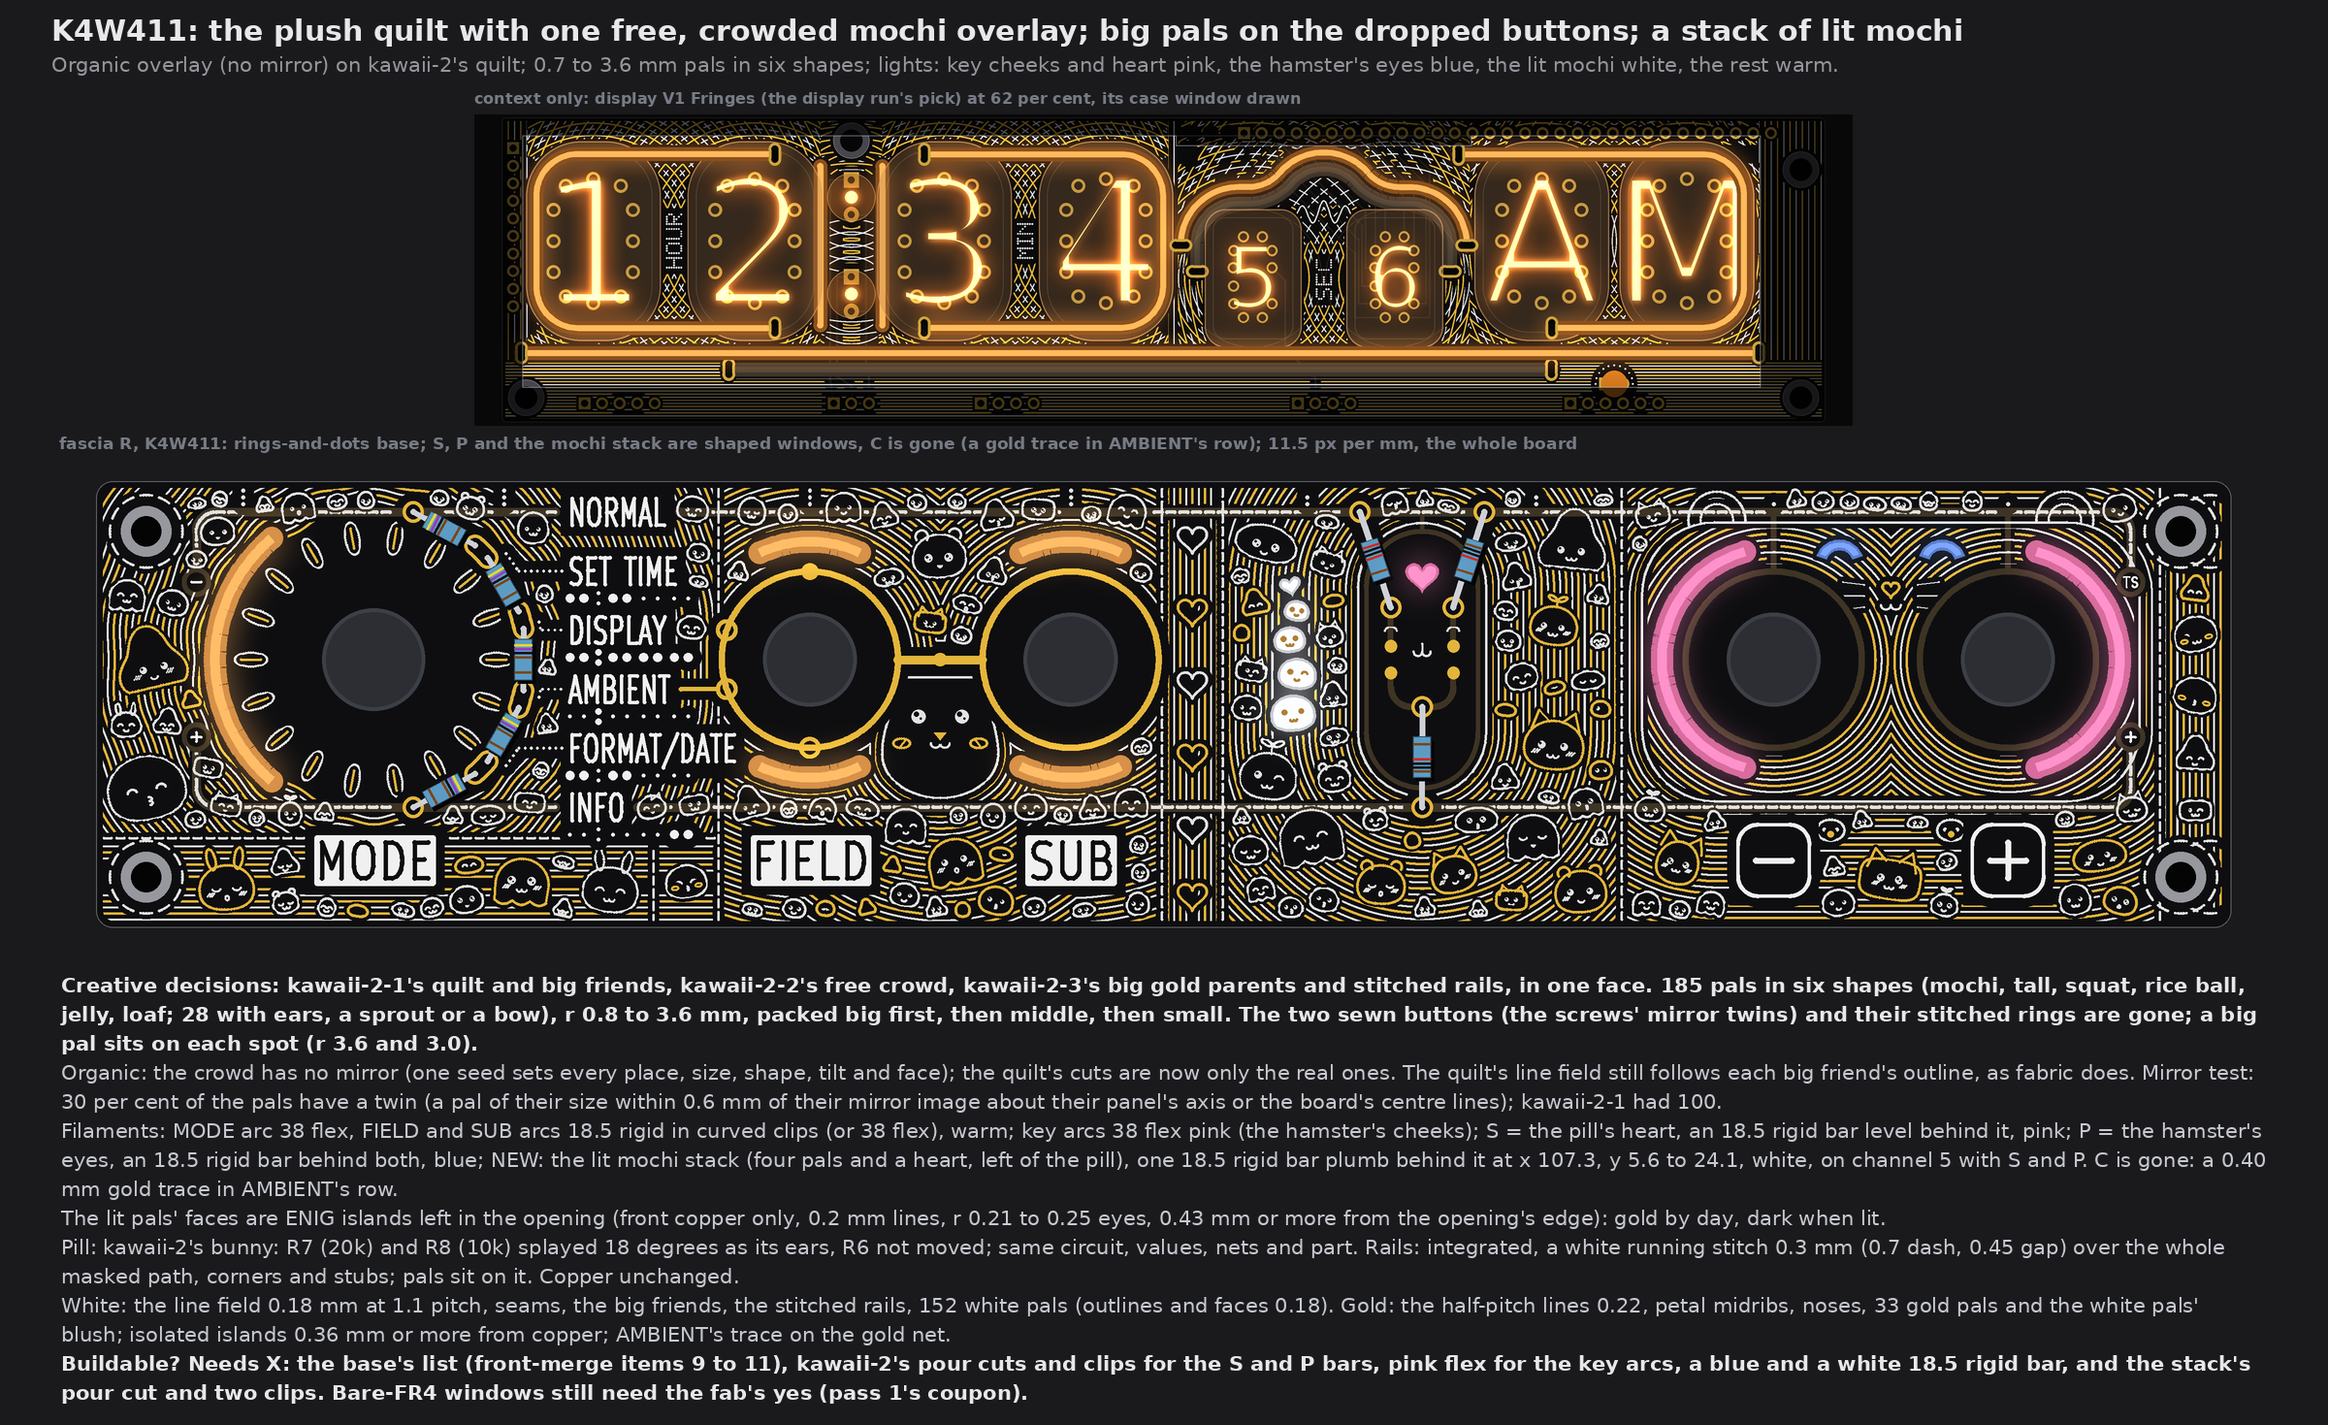
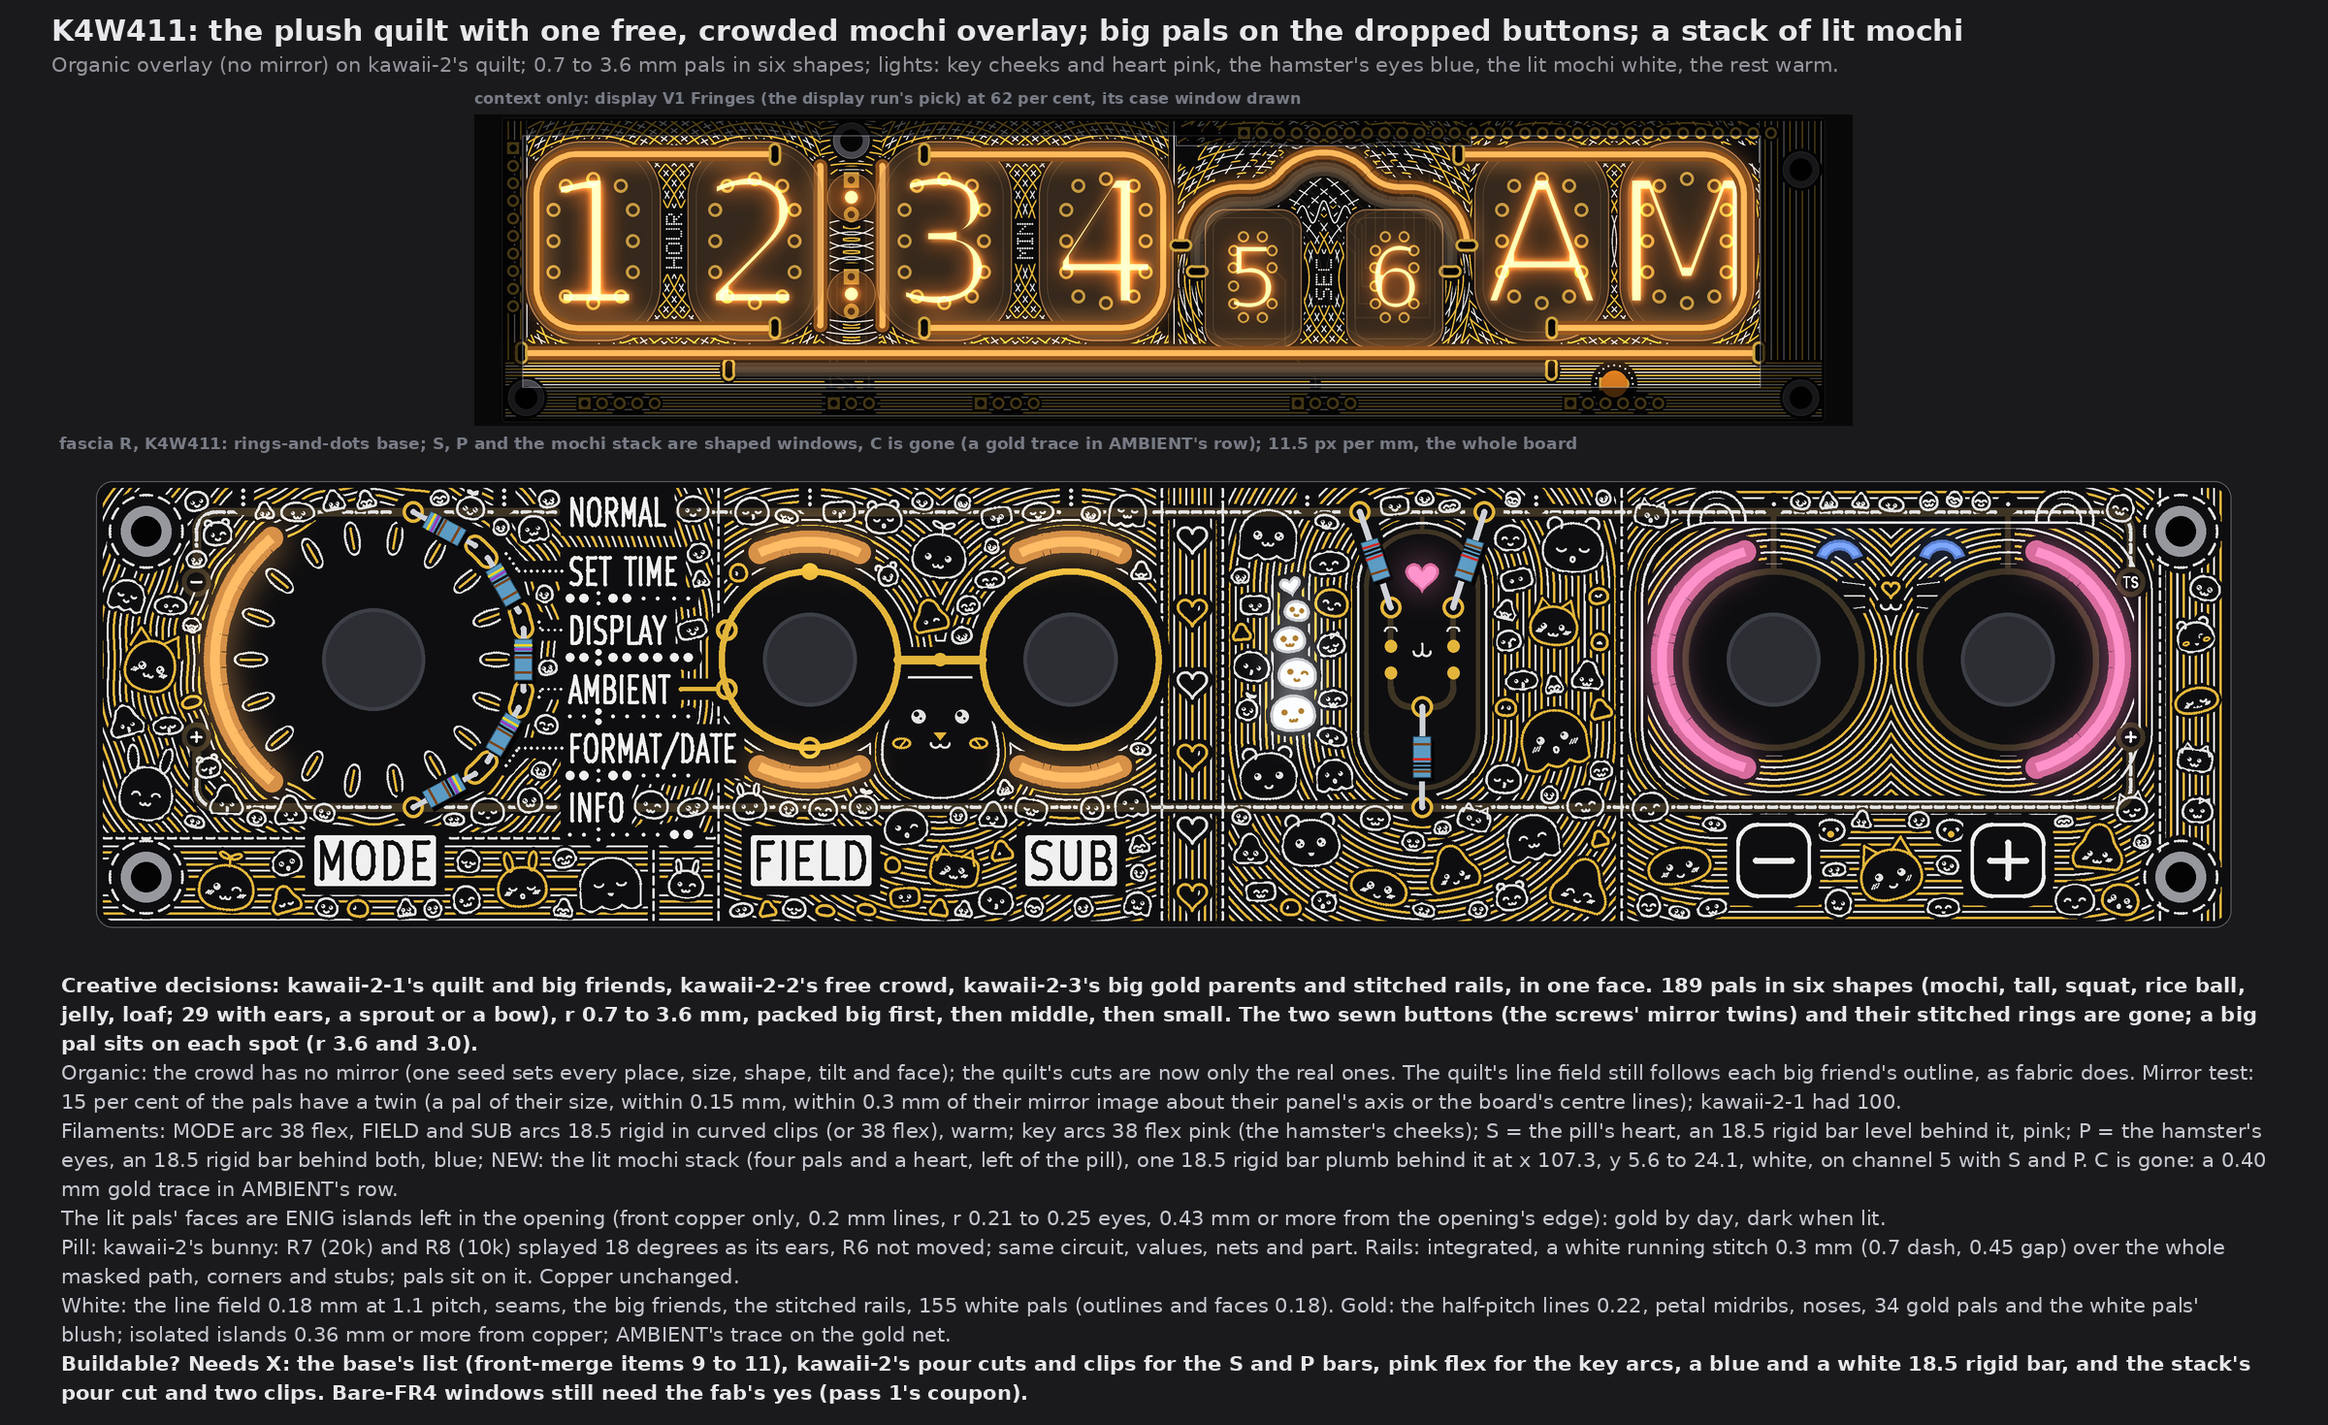
PCB/art: TS06 fascia K4W411 write-up, detail, back view and contact sheet; face after the full-size look (drawings only)
One final kawaii face: kawaii-2's quilt, 189 free pals in six shapes
(r 0.7 to 3.6), big pals on the two dropped sewn buttons (and the edge
panel's mirror rings dropped), a lit mochi stack on one new white 18.5
bar (channel 5 with S and P), rails stitched, the band under the keys
filled. S pink, P blue, keys pink, the rest warm.

Claude-Session: https://claude.ai/code/session_01WoV3gyAFgmtuk6W6Dr4bdA

diff --git a/PCB/art/TS06-FASCIA-K4W411.md b/PCB/art/TS06-FASCIA-K4W411.md
@@ -1,0 +1,207 @@
+# TS06 fascia K4W411: the final kawaii face (drawings only, nothing built)
+
+2026-10-14, front round 3, run fascia-K4W411. The owner's word (21:5x UTC): "final "K4W411" fascia option: converge on 1 mixing all
+three, dropping symmetry for the mochi overlay, the pals are varied in size and shape, its crwded, big ones are covering the
+unnecessary standoff mirrors that were used for bacground symmetry (the ones you marked with an x inside the circle) perhaps mochi
+light windows are possible? space under the buttons is a bit bare too".
+
+So K4W411 is one face made from the three kawaii-2 faces:
+* kawaii-2-1's quilt and big friends (the daisy, the cub, the bunny in the pill, the hamster, the hearts column);
+* kawaii-2-2's free crowd and its colours;
+* kawaii-2-3's big gold parents and its stitched rails.
+
+All characters are my own. The queue changes A1 to A5 are in: no top-edge dots (S and P are shaped windows), the pill and the
+rails said below, display V1 Fringes above the face, and the AMBIENT cutout C gone with a gold trace in its row.
+
+The face is fascia R with the owner's rings-and-dots (front-merge section 6), drawn from the board file's copy that pass 4 used,
+at one scale (11.5 px per mm), windows lit. No board, schematic, fab, tool, 3D, firmware or spec file was touched. The scripts are
+scratch (copies of the kawaii-2 run's), not in the repo. Marks: *measured* is from the drawing's raster (23 px per mm) or the
+board file; *inferred* is arithmetic; *assumed* is my reading.
+
+![K4W411 under display V1, and the three kawaii-2 faces it mixes](TS06-FASCIA-K4W411/contact-sheet.png)
+
+## 1. The face
+
+![K4W411](TS06-FASCIA-K4W411/k4w411.png)
+
+* **Creative decisions:** kawaii-2's plush quilt under one free, crowded overlay of 189 pals in six shapes, from r 0.7 to 3.6 mm.
+  Big pals sit where the two sewn buttons were. A stack of four lit mochi with a lit heart stands left of the pill. The rails are
+  the quilt's running stitch.
+* **Organic.** The crowd has no mirror: one seed sets every pal's place, size, shape, tilt, face and colour.
+  * The quilt's cuts are now only the real ones (round names, legends, windows, screws). kawaii-2 also cut each panel where a
+    cut's mirror image fell, and filled two of those cuts with the buttons; both are gone.
+  * The quilt's lines still follow each big friend's outline, like the seams of a sewn toy, and the big friends themselves (the
+    cub, the bunny, the hamster) keep their own faces. Nothing else on the board is mirrored.
+  * *Measured:* 15 per cent of the pals have a twin, meaning a pal of their size (within 0.15 mm) within 0.3 mm of their mirror
+    image about their panel's axis or the board's centre lines. These are chance matches in the narrow bands along the edges and
+    seams. kawaii-2-1 had 100 per cent.
+* **Filaments:**
+  * MODE arc: 38 flex, warm. FIELD and SUB arcs: 18.5 rigid in curved clips (or 38 flex), warm.
+  * The key arcs (the hamster's cheeks): 38 flex, pink.
+  * S: the heart in the pill, one 18.5 rigid bar lying level behind it, **pink**.
+  * P: the hamster's closed eyes, one 18.5 rigid bar behind both, **blue** (kawaii-2-2's sleepy blue eyes).
+  * **New: the lit mochi stack**, one 18.5 rigid bar, plumb, **white** (section 4).
+* **Pill:** as kawaii-2. R7 (20k) and R8 (10k) are splayed 18 degrees out as the bunny's ears; R6 does not move. The circuit,
+  values, nets and part do not change (section 5).
+* **Rails: integrated**, as a white running stitch along their whole copper path (section 5).
+* **White:** the line field (0.18 mm at 1.1 mm pitch), the seams, the big friends, the stitched rails and the screws' stitched
+  rings, and 155 white pals (outlines and faces 0.18 mm).
+* **Gold:** the half-pitch lines (0.22 mm), the petals' midribs, the noses, 34 gold pals, and the white pals' blush. All are
+  isolated islands, 0.36 mm or more from copper. AMBIENT's trace is on the gold net. The lit pals' faces are gold islands inside
+  their openings (section 4).
+* **Buildable? Needs X:**
+  * the base's list (front-merge items 9 to 11);
+  * kawaii-2's pour cuts and clip places for the S and P bars;
+  * pink flex for the key arcs, a blue 18.5 bar for P, a white 18.5 bar for the stack;
+  * the stack's pour cut and two clip places.
+  C's cut and tail are dropped.
+* **Fab note (once):** bare-FR4 windows still need the fab's yes (pass 1's coupon). Not decided here.
+
+![K4W411 at 2x](TS06-FASCIA-K4W411/detail-2x.png)
+
+## 2. The dropped buttons, and the big pals on them
+
+kawaii-2 drew a sewn button (a circle with a gold x) and a stitched ring where a screw's mirror image fell inside a panel:
+* (4.5, 27.5), the twin of the screw at (4.5, 4.5) across the daisy panel's row y 16;
+* (45.48, 35.5), the twin of the screw at (4.5, 35.5) across the MODE hem's axis x 24.99.
+
+Both buttons and both rings are gone, and so is the mirrored cut under them. The two mirror rings in the right edge panel (at x
+189.53) go too; the rings round the four real screws stay. The crowd
+is packed big first, and these two spots are placed before anything else:
+* a big pal of r 3.6 centred on (4.5, 27.5), by the MODE arc's lower end;
+* a big pal of r 3.0 at (46.1, 36.2), right of MODE. It is moved 0.9 mm off the old spot to clear the hem's seams, and still
+  covers it.
+
+The line field closes round them; the lines stop 0.32 mm short of each pal, as everywhere.
+
+## 3. The crowd: sizes, shapes, and the space under the keys
+
+| Pass | Radius, mm | Gap, mm | Pals | Bodies |
+|---|---|---|---|---|
+| Big (the two spots first, then up to 18 more) | 2.1 to 3.6 | 0.55 | 20 | gold where copper allows (0.36 mm), else white; most with ears, a sprout or a bow |
+| Middle | 1.25 to 2.0 | 0.46 | 79 | white; up to one in three gold |
+| Small | 0.74 to 1.15 | 0.36 | 90 | white and gold in turn |
+
+* **Shapes:**
+
+  | Shape | Pals |
+  |---|---|
+  | round mochi | 74 |
+  | rice ball (a soft triangle) | 32 |
+  | squat | 31 |
+  | tall | 29 |
+  | jelly (a round top over a wavy hem) | 10 |
+  | loaf (the big ones with cat ears) | 13 |
+
+  29 pals in all have bunny, cat or bear ears, a sprout or a bow.
+* **Faces:** the same set as kawaii-1 (dot, happy, sleepy, wink and sparkle eyes; w, u, o, v and 3 mouths). Each pal leans up to
+  16 degrees and looks toward its nearest control or big friend. The smallest (r under 1.0) get only dot eyes and a small smile,
+  because finer strokes would fall under the silk limit.
+* **Where pals may not sit:** a name, legend, plate, map, leader or index dot (0.75 mm calm ground); a window; a seam or a screw's
+  ring; the big friends and their features (the cub's head, the bunny's capsule, the hamster's head, ears and paws, the daisy's
+  petals, the hearts column).
+* **Under the - and + keys:** the band below the hamster's head (x 136.8 to 185.0, y 29.3 to 39.4) is now as full as the rest of
+  the board.
+  * A gold cat-eared loaf sits between the two key plates, below the paws.
+  * Gold and white pals fill both sides of the plates and the strip under them.
+  * *Measured:* pals cover 31 per cent of that band's free ground; the board's average is 30 per cent. The rest is the line
+    field and the stitched rail showing between them.
+
+## 4. The mochi light windows: a lit stack
+
+![The fascia's back: base, kawaii-2 and K4W411, and the bunny panel's back at 3x](TS06-FASCIA-K4W411/lights-back.png)
+
+**What it is:** four mochi pals stand on each other's heads, the biggest at the bottom, with a small lit heart floating above.
+Each pal is a window cut to the pal's outline (bare FR4, lit from behind), left of the pill. One new 18.5 rigid bar lies plumb
+behind all five windows.
+
+| Window | Centre (mm) | Size (w x h, mm) | Tilt |
+|---|---|---|---|
+| Pal 1 (bottom) | (107.30, 20.80) | 4.07 x 3.32 | -5 deg |
+| Pal 2 | (107.70, 17.27) | 3.49 x 2.84 | +6 deg |
+| Pal 3 | (107.00, 14.21) | 2.91 x 2.37 | -4 deg |
+| Pal 4 | (107.65, 11.63) | 2.33 x 1.90 | +9 deg |
+| Heart | (107.02, 9.47) | 1.92 x 1.83 | -12 deg |
+
+* The windows are 0.45 mm apart: a web of pour and mask between each pal and the next.
+* **Their faces are gold islands left inside each opening:** two eyes (r 0.21 to 0.25; one pal winks) and a w or u mouth (0.18
+  mm line). They are front copper only, 0.43 mm or more from the opening's edge (*measured*). By day they read gold on pale FR4;
+  lit, they block the light and read dark on a white glow.
+* **The light:** one 18.5 rigid bar, white, plumb at x 107.3 from y 5.6 to 24.1, on the fascia's back.
+  * All five windows lie inside its lit length, taken as 1 mm in from each end (*assumed*).
+  * The bottom pal is 4.1 mm wide over a 2.0 mm body, so its sides reach 1.0 mm past the bar. The FR4 spreads the light, so those
+    sides read a little dimmer than the core (*assumed*; the bench decides).
+* **On the back (*measured* on `R-open`):**
+  * behind x 100 to 140, y 0 to 22 there is only the GND pour;
+  * the nearest back track is the one at y 26.2, 0.97 mm from the bar's body (with round ends; rule 0.4);
+  * the clips sit at the bar's two ends, beyond the windows.
+* **Front:** the windows keep 0.68 mm or more from copper and 1.17 mm or more from any legend (the board's least gaps, section 6).
+
+| Change against the base | Filament (sold list), form | Channel | On the fascia's back |
+|---|---|---|---|
+| C and its tail removed (A5) | none | 5 loses C | C's pour cut closes |
+| S moved into the pill (kawaii-2): a 3.0 mm heart at (118.885, 8.35) | one 18.5 rigid bar, level at y 8.35, x 109.64 to 128.13, **pink** | 5 | pour cut under the heart; two clip places |
+| P reshaped and moved 1.8 mm down (kawaii-2): the hamster's closed eyes at (156.3, 6.3) and (165.5, 6.3) | one 18.5 rigid bar, level at y 6.3, x 151.65 to 170.15, **blue** | 5 | pour cuts under the eyes; two clip places |
+| **New: the lit mochi stack** (five windows above) | one **18.5 rigid bar, white**, plumb at x 107.3, y 5.6 to 24.1 | **5** (with S and P), or 6 | one pour cut under the five windows; two clip places; two leads to the new connector |
+| Key arcs recoloured | 38 flex, **pink** | 4 | none |
+
+* **What the new light costs:**
+  * one sold part (an 18.5 rigid bar, white), one pour cut and two printed clips;
+  * 20 mA at 5 V. The fascia goes back to ten filaments, the base's count (kawaii-2 had nine), so its worst case is the base's
+    (*inferred*).
+* **Channel:**
+  * On channel 5 with S and P, it costs no channel. The stack lights whenever S and P do: they already share that channel, so
+    they light together.
+  * On channel 6 (the new connector's spare) it could be its own setting, but only if DRV has a free PWM output for it.
+    disp-final-2 counts 14 of DRV's 16 for the display; not checked here.
+* **The S bar still fits on the pill's back** (*measured*): 1.03 mm to R7's and R8's lower pads, against the 0.4 rule.
+
+**Colours this face ships with:** warm (MODE, FIELD, SUB), pink (the key arcs, S), blue (P) and white (the stack). All are sold:
+the 18.5 rigid bar in warm white, white, blue and pink, and the 38 flex in pink. **Warm is still the default** on everything that
+says a control's state. The four colours are fixed by which part is fitted; none is a setting.
+
+## 5. The pill and the rails
+
+* **Pill:** kawaii-2's bunny. R7 (20k) and R8 (10k) are splayed 18 degrees out as its ears.
+  * The top pads stay on the GND rail, at x 113.31 and 124.47.
+  * The bottom pads are at (116.085, 11.33) and (121.685, 11.33).
+  * R6 does not move, and the landing dots (the bunny's eyes) do not move.
+  * The circuit, values, nets and part type do not change; the route to J1 is as on the ordered board.
+  * The heart (S) sits between the ears.
+* **Rails: integrated** as the quilt's running stitch: 0.3 mm white, 0.7 mm dashes, 0.45 mm gaps. It runs over both masked rails
+  along their whole path, with their corners and stubs to the lugs (kawaii-2-3 left the right end hidden for its mirror).
+  * The pals sit on the stitch the way they sit on the lines; the stitch stops 0.32 mm short of each pal.
+  * The line field keeps 0.45 mm off the stitch.
+  * Gold pals keep 0.36 mm from the rails' copper, so the pals that sit on a rail are white.
+  * The copper does not change.
+
+## 6. The checks (*measured* on the raster, 23 px per mm)
+
+| Check | Rule | K4W411 |
+|---|---|---|
+| White, gold to a name, plate, key legend, tube map, leader or index dot | 0.75 | 0.78, 0.80 |
+| White, gold to E1's exposed gold (rings, link, marks, pads, AMBIENT's trace) | 0.30 (frame 0.75 drawn) | 0.75, 0.75 |
+| Pattern gold to copper | 0.30 | 0.36 |
+| White, gold to a lit window | 0.35 | 0.39, 0.39 |
+| White to the pattern's gold | 0.30 | 0.31 |
+| Lit window to copper; to a legend | 0.30 | 0.68; 1.17 |
+| Lit pals' gold faces to their opening's edge | 0.30 | 0.43 |
+| AMBIENT's trace to a legend; to other copper | 0.75; 0.30 | 0.78; 10.0 |
+| The new bar's body to a back track | 0.40 | 0.97 |
+| Free board within 1.2 mm of some ink | (no empty space) | 97.5 % |
+| Pals: all (gold); big, middle, small | | 189 (34); 20, 79, 90 |
+
+What stays dark, as in kawaii-2, is the inside of the cub's head and the bunny's capsule, and the ring of mask between each knob
+and its window.
+
+## 7. Left open, assumed
+
+* *Assumed:* the S, P and stack bars are the shortest sold rigid bars (18.5). Their lit length is 1 mm short of each end.
+* *Assumed:* the white bar reads as rice-white, not blue-white; the bench decides. If not, the stack takes warm white (no other
+  change).
+* The rearranged pill, the moved S and P and the new stack are drawn on the art model's places (E1). On the ordered board
+  (`R-open`), R6 to R8 are still 1206 parts on the back; the board-change run places them.
+* The pattern's gold and the lit pals' faces are isolated islands (no net). Stems to GND can be added if the fab wants no floating
+  copper; not drawn.
+* The smallest strokes (0.15 to 0.18 mm silk) are at the fab's silk limit used before (0.15).
+* Not checked: KiCad DRC (no board file was edited), and whether DRV has a free output for channel 6.
